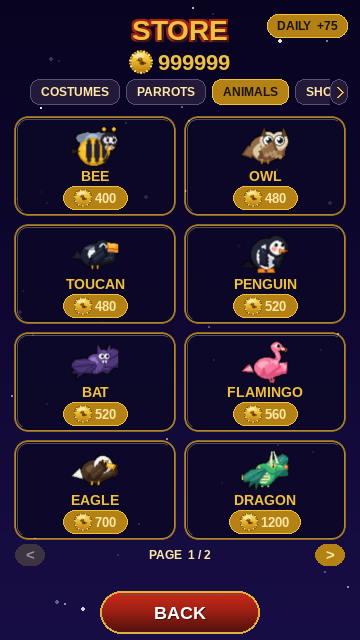
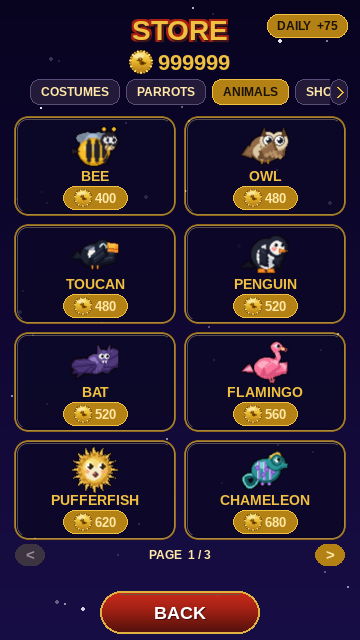
Finalize ANIMALS 9->20: round-4 modules, showcase, deliverable figures
- Refresh aurora_stag + axolotl game modules to their round-4 final builds
  (structural antler rebuild; dive-crown re-gapped). mantis_shrimp already at
  round-4. These four spent the full design-loop budget and ship folding in the
  last critique (no fresh SHIP-READY sign-off); the other 7 got art-director
  sign-off.
- Regenerate docs/showcase (ANIMALS now 3 store pages; +11 gameplay looks).
- Add the two deliverable figures under docs/animals/:
  FIGURE_store_pages.png (all 3 animal store pages) and
  FIGURE_gameplay.png (the 11 new creatures in-scene).

Claude-Session: https://claude.ai/code/session_01VWgQuAkvyxHkg8ghp6aQ5y

Changed region(s): [[0.6111, 0.6875, 0.8556, 0.8438], [0.1528, 0.6875, 0.3667, 0.8438]]

diff --git a/game/animal_axolotl.py b/game/animal_axolotl.py
@@ -133,22 +133,32 @@ def _legs(surf, color, *, splay=0):
 # pose; the constant-angle spacing keeps a clear sky-gap between every fork.
 # ═════════════════════════════════════════════════════════════════════════════
 def _fork(surf, base, ang, length):
-    """One bold gill fork: a tapered stalk that splits into two tines. Every
-    segment is drawn 2px thick along its WHOLE length so a fork never thins to a
-    frayed 1px tendril under the smoothscale → nearest gameplay pixel; the only
-    other pink value is a single lighter tip pixel per tine. Two pink values."""
+    """One bold gill fork: a thick stalk that TAPERS to a thin tip. The stalk is
+    3px at the root and the tine pair narrows to 1px at the tip, so the fan's
+    WIDEST point (the tips) carries the thinnest pink — that is what lets a clear
+    sky-gap survive between neighbours after the dive rotate→NEAREST downsample,
+    where a constant-2px tip would have bled into its neighbour and fused the
+    whole crown into a solid paddle. The root stays fat (2–3px) so a fork never
+    reads as a frayed tendril; only the LAST pixel of each tine is the lighter
+    `_GILL_H` value (the second and only other pink)."""
     bx, by = base
+    # split the stalk so it tapers 3px → 2px before the tines branch
+    mx0 = bx + math.cos(ang) * (length * 0.55)
+    my0 = by + math.sin(ang) * (length * 0.55)
     mx = bx + math.cos(ang) * length
     my = by + math.sin(ang) * length
-    pygame.draw.line(surf, _GILL, (bx, by), (mx, my), 3)
-    # Narrow the tine split so two tines read as ONE fork (not a frayed pair),
-    # and keep each tine a constant 2px so it never tapers to a tendril.
-    for da in (-0.28, 0.28):
+    pygame.draw.line(surf, _GILL, (bx, by), (mx0, my0), 3)
+    pygame.draw.line(surf, _GILL, (mx0, my0), (mx, my), 2)
+    # Each tine: a 2px mid then a 1px outer reach, so the tip is a single pink
+    # pixel with sky on either side — the inter-fork gap reads even at 40px.
+    for da in (-0.30, 0.30):
         tang = ang + da
-        tlen = length * 0.55
-        tx = mx + math.cos(tang) * tlen
-        ty = my + math.sin(tang) * tlen
-        pygame.draw.line(surf, _GILL, (mx, my), (tx, ty), 2)
+        midx = mx + math.cos(tang) * (length * 0.30)
+        midy = my + math.sin(tang) * (length * 0.30)
+        tx = mx + math.cos(tang) * (length * 0.58)
+        ty = my + math.sin(tang) * (length * 0.58)
+        pygame.draw.line(surf, _GILL, (mx, my), (midx, midy), 2)
+        pygame.draw.line(surf, _GILL, (midx, midy), (tx, ty), 1)
         # one lighter pixel at each tine tip — the second (and only other) value
         surf.set_at((int(round(tx)), int(round(ty))), _GILL_H)
 
@@ -167,19 +177,29 @@ def _crown(surf, bloom):
       * each fork's BASE also slides along the brow by the same fraction, so the
         roots separate too — a clear pixel of sky between every fork at 40px.
     Three forks lean left of the head's up-axis, two lean right (3/2 crown).
-    Longer stalks (the antler read) so the tips clear the head when bloomed."""
-    half = math.radians(15 + bloom * 34)          # 30°→~98° total spread (capped)
-    # Pulled the root spread in (was 1+bloom*4): on a bloomed dive the outer
-    # roots used to slide so far along the brow that their coral rim merged with
-    # the head rim — now every fork launches from clear scalp.
-    spread_px = 1 + bloom * 2.4
-    # fractions in [-1, 1] across the fan: three on the left, two on the right.
-    fracs = (-1.0, -0.5, 0.0, 0.5, 1.0)
+    Longer stalks (the antler read) so the tips clear the head when bloomed.
+
+    The splay FLOOR was raised (was 15°+bloom*34 → 30°..98°): the DIVE pose sits
+    near bloom 0.33, and at the old ~53° spread the five tips packed inside ~13°
+    each and the rotate→NEAREST downsample fused them into a solid coral paddle.
+    A 46°-floor fan (≈18° per gap even on the dive) keeps five distinct fronds
+    after rotation; the pulse still reads because the up-pose still blooms ~2×
+    wider than the down-pose."""
+    half = math.radians(23 + bloom * 27)          # 46°→100° total spread (capped)
+    # Root spread scales with the fan so the five roots separate as it blooms but
+    # never slide so far along the brow that the outer coral rim merges with the
+    # head rim — every fork still launches from clear scalp on the night dive.
+    spread_px = 1.6 + bloom * 2.2
+    # Non-linear fractions push the OUTER forks proportionally further apart than
+    # the inner pair, so the widest part of the fan opens its sky-gaps first —
+    # that is the gap that has to survive the dive downsample. Three lean left,
+    # two lean right (3/2 crown).
+    fracs = (-1.0, -0.46, 0.0, 0.46, 1.0)
     for i, fr in enumerate(fracs):
         ang = -math.pi / 2 + fr * half             # measured off straight-up
         bx = HCX - 2 + fr * spread_px
         by = HCY - 7 + abs(fr) * 1.5               # outer roots ride a touch up
-        length = 14 - abs(fr) * 2                   # outer forks slightly shorter
+        length = 14 - abs(fr) * 1.5                 # outer forks slightly shorter
         _fork(surf, (bx, by), ang, length)
 
 

diff --git a/game/animal_aurora_stag.py b/game/animal_aurora_stag.py
@@ -270,20 +270,23 @@ def build_aurora_stag(wing_angle_deg):
         steps = 8
         for i in range(steps + 1):
             t = i / steps
-            # up first (cos eases the rise so the base is near-vertical), then a
-            # forward throw that accelerates toward the tip (t**1.6) so the beam
-            # arcs OVER the nose instead of leaning toward the midline.
+            # up first (the base is near-vertical), then a forward throw that
+            # accelerates toward the tip (t**1.6) so the beam arcs OVER the nose
+            # instead of leaning toward the midline.
             by = ry - rise * t
             bx = rx + fwd * (t ** 1.6) + 1.5 * math.sin(t * math.pi)
             pts.append((bx, by))
         return pts
 
-    # Near (forward) antler springs from the right ear-base and throws hard
-    # forward over the muzzle; far (rear) antler from the left ear-base with a
-    # gentler throw, sitting behind it. Both forward = no inward V.
+    # The two beams are STAGGERED in depth so they read as a rack of two beams,
+    # not a fused plume: the FAR (rear) beam roots further back/left, stands
+    # taller and more upright behind; the NEAR (front) beam roots forward over
+    # the muzzle, sits lower, and throws harder forward. Both lean +x — there is
+    # no inward V — but their offset starts and unequal throws keep a clear gap
+    # of sky between the two crowns. Far drawn first so near reads in front.
     beams = [
-        ("far",  beam_curve(skull_l + 2, HCY - 5, fwd=9.0,  rise=28.0)),
-        ("near", beam_curve(skull_r + 1, HCY - 5, fwd=13.0, rise=30.0)),
+        ("far",  beam_curve(skull_l - 1, HCY - 6, fwd=6.0,  rise=30.0)),
+        ("near", beam_curve(skull_r + 3, HCY - 3, fwd=13.0, rise=24.0)),
     ]
     for which, beam in beams:
         _aurora_ribbon(surf, beam, 5, phase)
@@ -307,8 +310,11 @@ def build_aurora_stag(wing_angle_deg):
         # notch from the beam tip so it reads as a DISCRETE floating point at 1×
         # (the old blob fused to the beam). Seated a hair down the final segment
         # so the cross's north arm clears the canvas top.
+        # Seat the star a touch inward (−1x) and down (+5y) from the apex so its
+        # size-4 cross + bloom keep a clean ≥1px margin off the top/right canvas
+        # edges through the dive rotation (the clip-safety contract).
         tipx, tipy = beam[-1]
-        star_pos = (tipx + 1, tipy + 4)
+        star_pos = (tipx - 1, tipy + 5)
         _star(surf, star_pos, 4,
               glow=(AUR_GREEN if which == "near" else AUR_VIO),
               notch_from=beam[-2])

diff --git a/docs/animals/axolotl/round_4.md b/docs/animals/axolotl/round_4.md
@@ -1,0 +1,75 @@
+# AXOLOTL — Round 4 (FINAL pass)
+
+Round-3 verdict: **ITERATE** — one remaining failure. The level/upright poses
+are SHIP-QUALITY and the dive FACE fix (3 separated dots) landed clean; both are
+frozen. The sole defect: the gill crown collapsed into a solid coral paddle (no
+sky-gaps) in the DIVE pose, on day AND night. This is the last loop turn; the
+skin ships as-is after it. Single production build unchanged: `build_axolotl` →
+`get_axolotl` → `BUILDERS = {"skin_axolotl": get_axolotl}`. Contract unchanged:
+64×84, body (32,44), head (44,34), 4 poses over `_WING_ANGLES`, procedural-only,
+WHY-only comments.
+
+## Root cause (per the art-director)
+
+The fan is baked into the upright frame, then the getter rotates it for the
+dive. The DIVE pose lands near `bloom 0.33` (frame 1), where the old splay
+(`half = 15 + bloom*34` → only ~53° total → ~13° per gap) packed the five tips
+too tightly; the dive `rotozoom` + the gameplay smoothscale→NEAREST downsample
+then filled the narrow inter-fork gaps and fused the crown into one paddle.
+
+## The fix — re-gap the forks so the gaps survive rotation
+
+Two geometry changes, both inside `_fork` / `_crown`. No new logic, no new layer.
+
+1. **Tapered tips (`_fork`).** Each fork now tapers from a fat 3px root → 2px
+   mid stalk → a 2px-then-1px tine pair, so the LAST pixel of every tine is a
+   single pink pixel with sky on both sides. The fan's widest point (the tips)
+   now carries the thinnest pink, which is exactly where a clear sky-gap has to
+   survive the dive downsample. The old constant-2px tip bled into its neighbour
+   and welded the crown solid; the tapered tip does not.
+
+2. **Wider splay + wider outer forks (`_crown`).**
+   - Splay floor raised: `half = 23 + bloom*27` → **46°→100°** total (was
+     `15 + bloom*34` → 30°→98°). The DIVE pose now opens to ~65° (≈18° per gap)
+     instead of ~53° — wide enough that five distinct fronds survive rotation.
+   - Fractions made non-linear (`-1, -0.46, 0, 0.46, 1`, was ±0.5) so the OUTER
+     forks splay proportionally further than the inner pair; the widest gaps —
+     the ones that have to read after the downsample — open first.
+   - Root spread scaled up a touch (`spread_px = 1.6 + bloom*2.2`, was
+     `1 + bloom*2.4`) so the five roots separate along the brow without sliding
+     so far that the outer coral rim merges with the head rim.
+
+   Result: **five distinct forks, five visible sky-gaps in the DIVE pose on BOTH
+   day and night** — verified at 40px NEAREST x6 (top row of `round_4.png`).
+
+## Frozen (untouched)
+
+- **Level / upright crown.** Already clean; the splay change keeps it a crisp
+  fan (see the pulse strip + LEVEL columns — still distinct forks, more open).
+- **Dive FACE layer.** Three separated dots (two eyes + a mouth dot); legible in
+  both dive columns and the dive zoom. Unchanged.
+- **1px dark-coral rim (#A03A5E).** `_add_outline` unchanged.
+- **Down-sweep / up-bloom pulse logic.** `_flap` still inverted (wing 50° =
+  bloom 0 = tight; wing -40° = bloom 1 = full fan). The pulse still reads ~2×:
+  ~46° tight → ~100° bloom.
+- **Single-pink two-value crown.** `_GILL = #FF6E96` + one `_GILL_H` tip pixel
+  per tine. No third value added.
+
+## Night-dive root check (the earlier merge concern)
+
+Re-verified now that the forks exist again: on the NIGHT DIVE the outer fork
+roots launch from clear scalp — a visible band of body between each crown root
+and the head rim, no coral-on-coral merge (top-right panel + NIGHT row).
+
+## Proof
+
+`round_4.png` leads with the targeted read — a **big DIVE crown at 40px NEAREST
+x6 on real DAY and NIGHT skies** (five fronds, five gaps) — then the standard
+proof: HERO 130px on WHITE / DAY / NIGHT; 40px NEAREST x5 level + dive on DAY
+and NIGHT; and the down→up pulse strip (tight ~46° → capped ~100° bloom). Sky
+colours are the actual `game/biome.py` DAY (`(40,110,200)→(170,220,245)`) and
+NIGHT (`(5,8,30)→(35,55,115)`) keyframes. Module imports clean; all 4 frames
+build at 64×84 and the cached getter rotates the dive.
+
+Deliverables: `axolotl_skins.py` (single build), `_render_sheet.py`,
+`round_4.png`, `round_4.md`.

diff --git a/docs/showcase/animal.md b/docs/showcase/animal.md
@@ -1,13 +1,14 @@
-# ANIMALS — 9 looks
+# ANIMALS — 20 looks
 
 [← back to the showcase index](README.md)
 
 ## In the store
 
-How the **ANIMALS** tab looks in the shop (2 pages):
+How the **ANIMALS** tab looks in the shop (3 pages):
 
 <img src="img/store_animal_p1.png" width="280">
 <img src="img/store_animal_p2.png" width="280">
+<img src="img/store_animal_p3.png" width="280">
 
 ## In gameplay
 
@@ -23,10 +24,25 @@ Pip wearing every item, mid-flight in the same daytime scene (only the cosmetic 
   <tr>
     <td align="center" valign="top"><a href="img/play_skin_bat_full.png"><img src="img/play_skin_bat_zoom.png" width="180"></a><br><b>BAT</b><br>520</td>
     <td align="center" valign="top"><a href="img/play_skin_flamingo_full.png"><img src="img/play_skin_flamingo_zoom.png" width="180"></a><br><b>FLAMINGO</b><br>560</td>
-    <td align="center" valign="top"><a href="img/play_skin_eagle_full.png"><img src="img/play_skin_eagle_zoom.png" width="180"></a><br><b>EAGLE</b><br>700</td>
-    <td align="center" valign="top"><a href="img/play_skin_dragon_full.png"><img src="img/play_skin_dragon_zoom.png" width="180"></a><br><b>DRAGON</b><br>1200</td>
+    <td align="center" valign="top"><a href="img/play_skin_pufferfish_full.png"><img src="img/play_skin_pufferfish_zoom.png" width="180"></a><br><b>PUFFERFISH</b><br>620</td>
+    <td align="center" valign="top"><a href="img/play_skin_chameleon_full.png"><img src="img/play_skin_chameleon_zoom.png" width="180"></a><br><b>CHAMELEON</b><br>680</td>
   </tr>
   <tr>
+    <td align="center" valign="top"><a href="img/play_skin_eagle_full.png"><img src="img/play_skin_eagle_zoom.png" width="180"></a><br><b>EAGLE</b><br>700</td>
+    <td align="center" valign="top"><a href="img/play_skin_red_panda_full.png"><img src="img/play_skin_red_panda_zoom.png" width="180"></a><br><b>RED PANDA</b><br>740</td>
+    <td align="center" valign="top"><a href="img/play_skin_sugar_glider_full.png"><img src="img/play_skin_sugar_glider_zoom.png" width="180"></a><br><b>SUGAR GLIDER</b><br>820</td>
+    <td align="center" valign="top"><a href="img/play_skin_axolotl_full.png"><img src="img/play_skin_axolotl_zoom.png" width="180"></a><br><b>AXOLOTL</b><br>900</td>
+  </tr>
+  <tr>
+    <td align="center" valign="top"><a href="img/play_skin_mantis_shrimp_full.png"><img src="img/play_skin_mantis_shrimp_zoom.png" width="180"></a><br><b>MANTIS SHRIMP</b><br>980</td>
+    <td align="center" valign="top"><a href="img/play_skin_griffin_full.png"><img src="img/play_skin_griffin_zoom.png" width="180"></a><br><b>GRIFFIN</b><br>1100</td>
+    <td align="center" valign="top"><a href="img/play_skin_dragon_full.png"><img src="img/play_skin_dragon_zoom.png" width="180"></a><br><b>DRAGON</b><br>1200</td>
     <td align="center" valign="top"><a href="img/play_skin_phoenix_full.png"><img src="img/play_skin_phoenix_zoom.png" width="180"></a><br><b>PHOENIX</b><br>1500</td>
+  </tr>
+  <tr>
+    <td align="center" valign="top"><a href="img/play_skin_thunderbird_full.png"><img src="img/play_skin_thunderbird_zoom.png" width="180"></a><br><b>THUNDERBIRD</b><br>1800</td>
+    <td align="center" valign="top"><a href="img/play_skin_cosmic_jelly_full.png"><img src="img/play_skin_cosmic_jelly_zoom.png" width="180"></a><br><b>COSMIC JELLY</b><br>2200</td>
+    <td align="center" valign="top"><a href="img/play_skin_aurora_stag_full.png"><img src="img/play_skin_aurora_stag_zoom.png" width="180"></a><br><b>AURORA STAG</b><br>2800</td>
+    <td align="center" valign="top"><a href="img/play_skin_kitsune_full.png"><img src="img/play_skin_kitsune_zoom.png" width="180"></a><br><b>KITSUNE</b><br>3500</td>
   </tr>
 </table>

diff --git a/docs/showcase/README.md b/docs/showcase/README.md
@@ -1,6 +1,6 @@
 # Skybit Store — visual showcase
 
-Every cosmetic in the coin Store, **category by category**: how each tab looks in the shop, and the parrot **Pip wearing every one of the 69 looks** (+ the free DEFAULT) in real gameplay. All art is procedural (drawn from code).
+Every cosmetic in the coin Store, **category by category**: how each tab looks in the shop, and the parrot **Pip wearing every one of the 80 looks** (+ the free DEFAULT) in real gameplay. All art is procedural (drawn from code).
 
 Each gameplay frame is staged in the same daytime scene so the looks compare cleanly; click any thumbnail for the full 360×640 screen.
 
@@ -8,7 +8,7 @@ Each gameplay frame is staged in the same daytime scene so the looks compare cle
 
 - [**COSTUMES** — 15 looks](costume.md)
 - [**PARROTS** — 7 looks](parrot.md)
-- [**ANIMALS** — 9 looks](animal.md)
+- [**ANIMALS** — 20 looks](animal.md)
 - [**SHOES** — 10 looks](shoes.md)
 - [**HATS** — 17 looks](hats.md)
 - [**SHADES** — 13 looks](shades.md)
